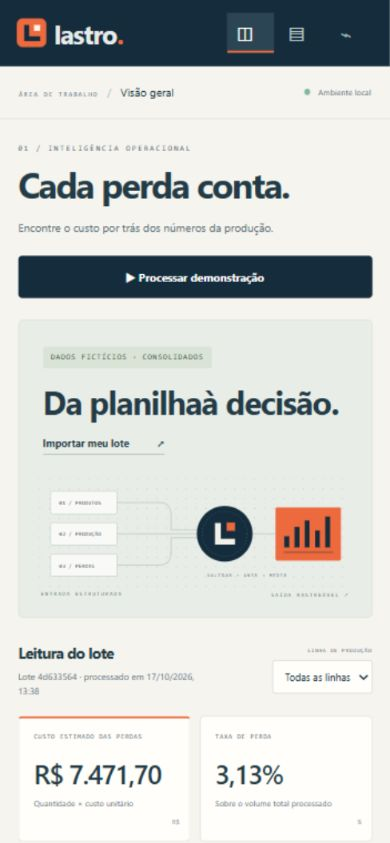
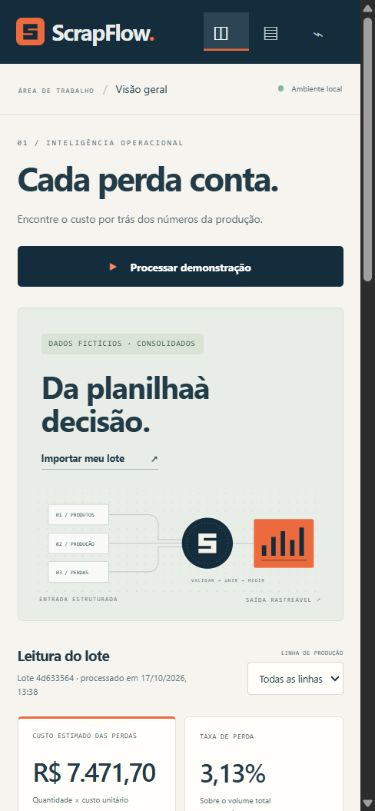
Renomeia projeto e identidade visual para ScrapFlow

diff --git a/templates/index.html b/templates/index.html
@@ -5,9 +5,9 @@
     <meta name="viewport" content="width=device-width,initial-scale=1" />
     <meta
       name="description"
-      content="Lastro: da planilha à leitura das perdas. Demonstração independente de automação e análise de dados de produção."
+      content="ScrapFlow: da planilha à leitura das perdas. Demonstração independente de automação e análise de dados de produção."
     />
-    <title>Lastro — Controle de perdas</title>
+    <title>ScrapFlow — Controle de perdas</title>
     <link rel="icon" href="/static/mark.svg" type="image/svg+xml" />
     <link rel="stylesheet" href="/static/app.css" />
     <script src="/static/app.js" defer></script>
@@ -15,9 +15,9 @@
   <body>
     <a class="skip" href="#main">Ir para o conteúdo</a>
     <aside class="sidebar">
-      <a class="brand" href="#overview" aria-label="Lastro, visão geral"
+      <a class="brand" href="#overview" aria-label="ScrapFlow, visão geral"
         ><img src="/static/mark.svg" alt="" width="38" height="38" /><span
-          >lastro<span class="brand-dot">.</span></span
+          >ScrapFlow<span class="brand-dot">.</span></span
         ></a
       >
       <div class="side-caption">CONTROLE DE PERDAS</div>
@@ -128,8 +128,7 @@
                   stroke="#607584"
                   stroke-dasharray="2 5"
                 />
-                <path d="M360 91v44h41v-12h-29V91z" fill="#f2f0e8" />
-                <path d="M384 90h17v17h-17z" fill="#ed693e" />
+                <path d="M400 91h-40v28h28v6h-28v10h40v-28h-28v-6h28z" fill="#f2f0e8" />
                 <rect
                   x="484"
                   y="59"
@@ -511,7 +510,7 @@
         </section>
         <footer class="footer">
           <span
-            >LASTRO <span class="footer-slash">/</span> DADOS QUE SUSTENTAM
+            >SCRAPFLOW <span class="footer-slash">/</span> DADOS QUE SUSTENTAM
             DECISÕES</span
           ><span>Projeto de Alexandre Prestes · 2026</span>
         </footer>

diff --git a/static/app.css b/static/app.css
@@ -82,11 +82,16 @@ select:focus-visible {
 }
 .brand {
   display: flex;
-  gap: 12px;
+  gap: 9px;
   align-items: center;
   font-weight: 750;
-  letter-spacing: -2px;
-  font-size: 37px;
+  letter-spacing: -1px;
+  font-size: 23px;
+}
+.brand img {
+  width: 32px;
+  height: 32px;
+  flex-shrink: 0;
 }
 .brand-dot {
   color: var(--orange);
@@ -1174,7 +1179,7 @@ td:first-child {
   }
   .brand > span {
     display: block;
-    font-size: 26px;
+    font-size: 23px;
     letter-spacing: -1px;
   }
   .brand img {

diff --git a/static/app.js b/static/app.js
@@ -303,7 +303,7 @@ function navigate() {
     else link.removeAttribute("aria-current");
   });
   $("#page-name").textContent = names[page];
-  document.title = `Lastro — ${names[page]}`;
+  document.title = `ScrapFlow — ${names[page]}`;
   if (page === "batches") loadHistory();
   window.scrollTo({ top: 0 });
 }

diff --git a/scrapflow/__init__.py b/scrapflow/__init__.py
@@ -29,7 +29,7 @@ def create_app(config=None):
         __name__, template_folder=str(ROOT / "templates"), static_folder=str(ROOT / "static")
     )
     app.config.update(
-        MAX_CONTENT_LENGTH=5 * 1024 * 1024, DATABASE=ROOT / "instance" / "lastro.sqlite3"
+        MAX_CONTENT_LENGTH=5 * 1024 * 1024, DATABASE=ROOT / "instance" / "scrapflow.sqlite3"
     )
     if config:
         app.config.update(config)
@@ -115,7 +115,7 @@ def create_app(config=None):
         return send_file(
             workbook_report(run),
             as_attachment=True,
-            download_name=f"lastro-{run_id[:8]}.xlsx",
+            download_name=f"scrapflow-{run_id[:8]}.xlsx",
             mimetype="application/vnd.openxmlformats-officedocument.spreadsheetml.sheet",
         )
 
@@ -129,7 +129,7 @@ def create_app(config=None):
         return send_file(
             stream,
             as_attachment=True,
-            download_name="lastro-exemplos.zip",
+            download_name="scrapflow-exemplos.zip",
             mimetype="application/zip",
         )
 

diff --git a/tests/test_app.py b/tests/test_app.py
@@ -6,8 +6,8 @@ import unittest
 from zipfile import ZipFile
 
 from openpyxl import load_workbook
-from lastro import ROOT, create_app, sample_data
-from lastro.pipeline import summarize
+from scrapflow import ROOT, create_app, sample_data
+from scrapflow.pipeline import summarize
 
 
 class ApplicationTests(unittest.TestCase):

diff --git a/scrapflow/reports.py b/scrapflow/reports.py
@@ -20,7 +20,7 @@ def workbook_report(run):
     cover = book.active
     cover.title = "Resumo"
     rows = [
-        ["LASTRO", "Relatório de perdas"],
+        ["SCRAPFLOW", "Relatório de perdas"],
         ["Execução", run["id"]],
         ["Origem", run["source"]],
         ["Gerado em (UTC)", run["created_at"]],

diff --git a/tests/test_pipeline.py b/tests/test_pipeline.py
@@ -5,7 +5,7 @@ from io import BytesIO
 import unittest
 from openpyxl import Workbook
 
-from lastro.pipeline import InputError, consolidate, read_table, summarize
+from scrapflow.pipeline import InputError, consolidate, read_table, summarize
 
 
 def fixture():

diff --git a/app.py b/app.py
@@ -1,6 +1,6 @@
 """Servidor local. Execute: python app.py."""
 
-from lastro import create_app
+from scrapflow import create_app
 
 app = create_app()
 

diff --git a/README.md b/README.md
@@ -1,22 +1,22 @@
-<img src="static/mark.svg" alt="Marca Lastro" width="56">
+<img src="static/mark.svg" alt="Marca ScrapFlow" width="56">
 
-# Lastro
+# ScrapFlow
 
 **Controle de perdas de produção, da entrada dos arquivos ao relatório Excel.**
 
-Lastro é uma aplicação local em Python que consolida cadastro de produtos, ordens de produção e registros de perda. Valida as relações entre os arquivos, calcula indicadores e permite investigar os resultados em um painel.
+ScrapFlow é uma aplicação local em Python que consolida cadastro de produtos, ordens de produção e registros de perda. Valida as relações entre os arquivos, calcula indicadores e permite investigar os resultados em um painel.
 
 Desenvolvi esta edição para demonstrar um fluxo completo de automação e análise de dados, com regras explícitas e exemplos reproduzíveis. Os dados são fictícios; o projeto não representa uma empresa ou operação real.
 
-![Painel do Lastro com dados fictícios](docs/images/dashboard.jpg)
+![Painel do ScrapFlow com dados fictícios](docs/images/dashboard.jpg)
 
 ## Experimente em poucos minutos
 
 Requisitos: **Python 3.11 ou superior**. Não é necessário instalar Microsoft Excel, Node.js ou um servidor de banco de dados para usar a aplicação.
 
 ```bash
-git clone https://github.com/alex10presam-lang/lastro.git
-cd lastro
+git clone https://github.com/alex10presam-lang/scrapflow.git
+cd scrapflow
 python -m venv .venv
 ```
 
@@ -42,7 +42,7 @@ Para testar a importação, use os três arquivos de [`examples/`](examples/) ou
 
 Planilhas separadas podem contar histórias diferentes sobre a mesma produção. Um registro duplicado aumenta a perda; uma ordem sem cadastro impede calcular seu custo; um lote parcial pode levar a conclusões erradas.
 
-O Lastro trata o conjunto como uma unidade: valida as três fontes antes de salvar qualquer resultado. Um lote inválido retorna uma mensagem com a causa e não altera as execuções anteriores.
+O ScrapFlow trata o conjunto como uma unidade: valida as três fontes antes de salvar qualquer resultado. Um lote inválido retorna uma mensagem com a causa e não altera as execuções anteriores.
 
 ## O que está implementado
 
@@ -90,10 +90,10 @@ flowchart LR
 
 | Camada | Responsabilidade |
 | --- | --- |
-| `lastro/pipeline.py` | Leitura das tabelas, contratos, relações e cálculo dos indicadores |
-| `lastro/storage.py` | Transações e consulta das execuções em SQLite |
-| `lastro/reports.py` | Geração do relatório e proteção de textos que poderiam virar fórmulas |
-| `lastro/__init__.py` | Fábrica Flask, rotas HTTP e respostas de erro |
+| `scrapflow/pipeline.py` | Leitura das tabelas, contratos, relações e cálculo dos indicadores |
+| `scrapflow/storage.py` | Transações e consulta das execuções em SQLite |
+| `scrapflow/reports.py` | Geração do relatório e proteção de textos que poderiam virar fórmulas |
+| `scrapflow/__init__.py` | Fábrica Flask, rotas HTTP e respostas de erro |
 | `static/` e `templates/` | Interface sem framework e sem etapa de compilação |
 
 Escolhi **Flask + SQLite** porque o uso é local e o volume é limitado. Um worker, uma fila ou um banco externo acrescentariam operação sem resolver um requisito desta versão. Os cálculos não dependem das rotas HTTP, o que permite testá-los separadamente.
@@ -115,9 +115,9 @@ O workflow do GitHub Actions configura a execução em Windows e Linux com Pytho
 ## Organização
 
 ```text
-lastro/
+scrapflow/
 ├── app.py                   # Entrada do servidor local
-├── lastro/                  # Backend e regras de negócio
+├── scrapflow/                  # Backend e regras de negócio
 ├── templates/index.html     # Estrutura da interface
 ├── static/                  # Estilos, comportamento e marca
 ├── examples/                # Três arquivos CSV fictícios
@@ -127,7 +127,7 @@ lastro/
 └── requirements.txt
 ```
 
-O banco é criado em `instance/lastro.sqlite3`, fora do versionamento. Os uploads são processados em memória; somente o lote normalizado é persistido localmente. O histórico mostra as últimas 100 execuções.
+O banco é criado em `instance/scrapflow.sqlite3`, fora do versionamento. Os uploads são processados em memória; somente o lote normalizado é persistido localmente. O histórico mostra as últimas 100 execuções.
 
 ## Limites da versão
 
